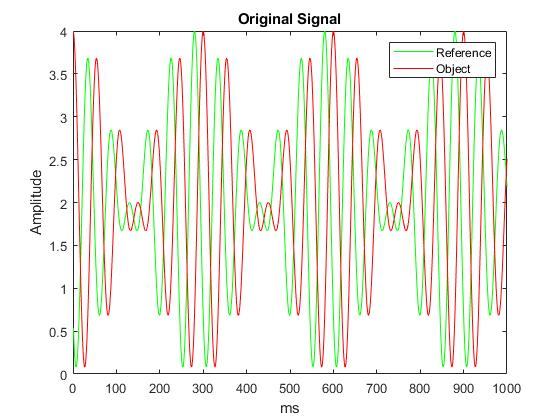
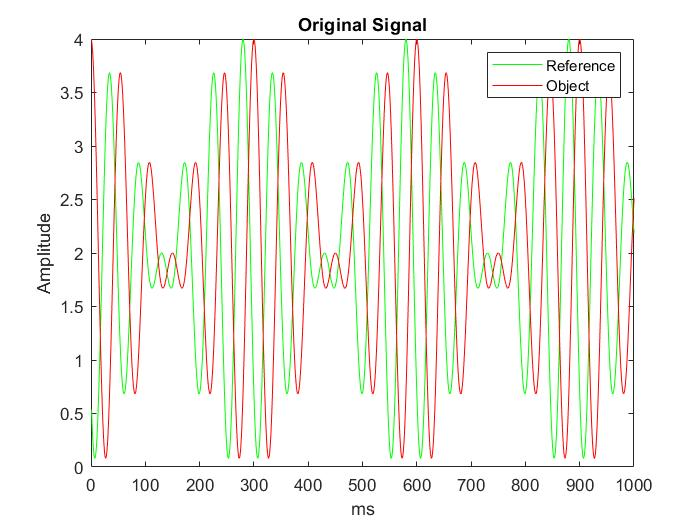
really final result

Changed region(s): [[0.0304, 0.031, 0.9411, 0.9595], [0.4857, 0.9595, 0.5464, 0.9905], [0.6679, 0.0619, 0.6982, 0.0929]]

diff --git a/CS_TOF_FDsim.m b/CS_TOF_FDsim.m
@@ -6,8 +6,8 @@ clc;
 Fbase = 1000; %KHz
 F1 = Fbase; %KHz = 1MHz %First frequency of the signal
 F2 = 1.2*Fbase; %KHz = 1.2MHz %Second frequency of the signal
-PD1 = (64/6)*pi; %1st Component Phase Difference
-PD2 = (64/5)*pi; %2nd Component Phase Difference
+PD1 = (4/6)*pi; %1st Component Phase Difference
+PD2 = (4/5)*pi; %2nd Component Phase Difference
 SpL = 2; %Sparse level
 SampPerCyc = 60;
 Fs = 10; %Sampling Frequency at 10 KHz
@@ -33,7 +33,7 @@ figure()
 plot(SigRef,'g');
 hold on 
 plot(SigObj,'r');
-xlim([0 1000]); %Limit for clear view of signal phase difference
+%xlim([0 1000]); %Limit for clear view of signal phase difference
 legend('Reference','Object')
 title('Original Signal')
 xlabel('ms')
@@ -108,7 +108,7 @@ title('Recovery Verify for Object Signal');
 
 figure()
 plot(real(ifft(xpR)),'g');
-xlim([0 1000]) %Limit for clear view of signal phase difference
+%xlim([0 1000]) %Limit for clear view of signal phase difference
 hold all
 plot(real(ifft(xp)),'r');
 legend('Reference','Object')
@@ -185,6 +185,3 @@ PDS = ((2*pi*LocDif)/Cycle);
 LightSpeed = 3e8;
 Distance = (LightSpeed/(2*abs(F1-F2)*10^3))*(PDS/(2*pi));
 fprintf('Measured Distance = %.2fm\n',Distance)
-fprintf('Measured Distance = %.20fm\n',PD1)
-fprintf('Measured Distance = %.20fm\n',PD2)
-fprintf('Measured Distance = %.20fm\n',PDS)
